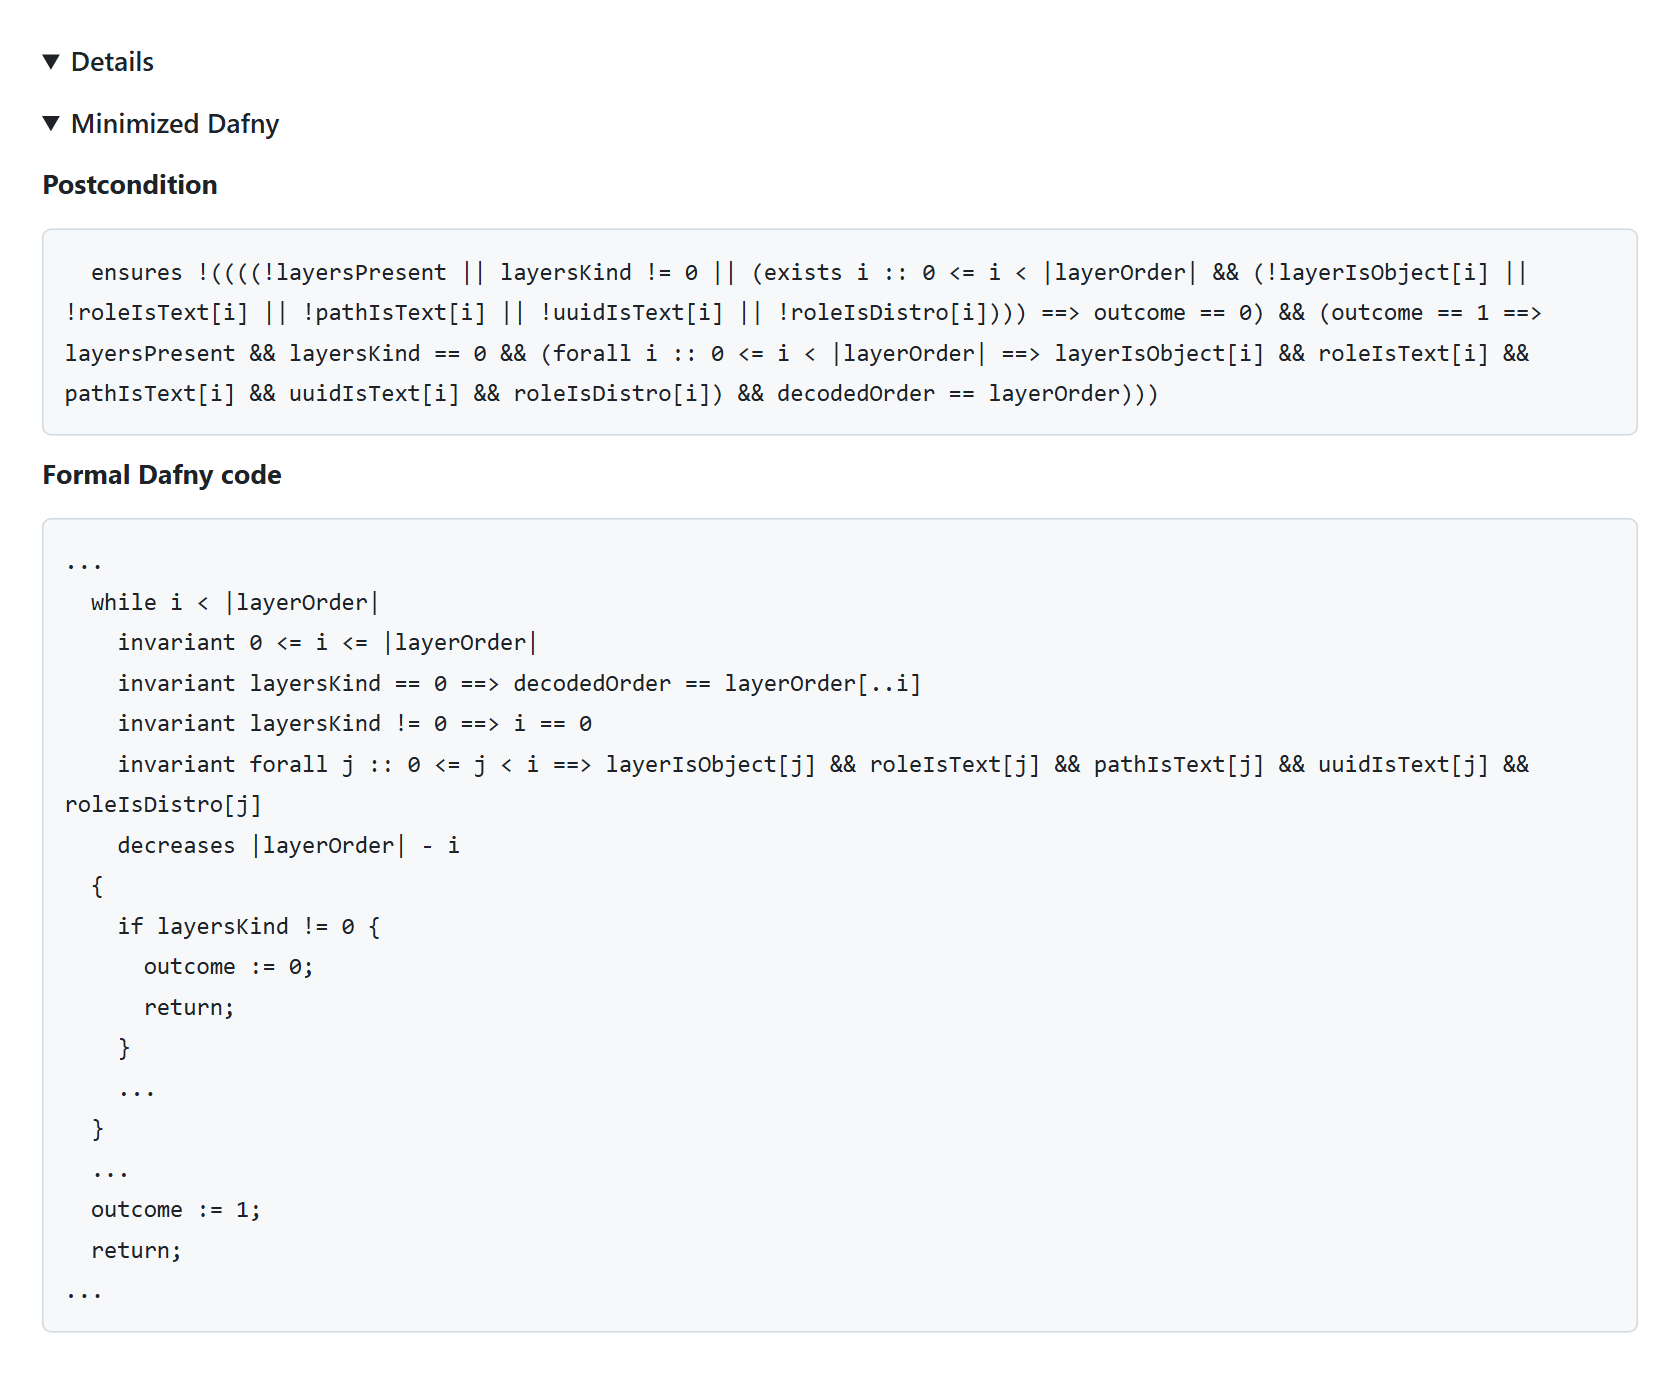
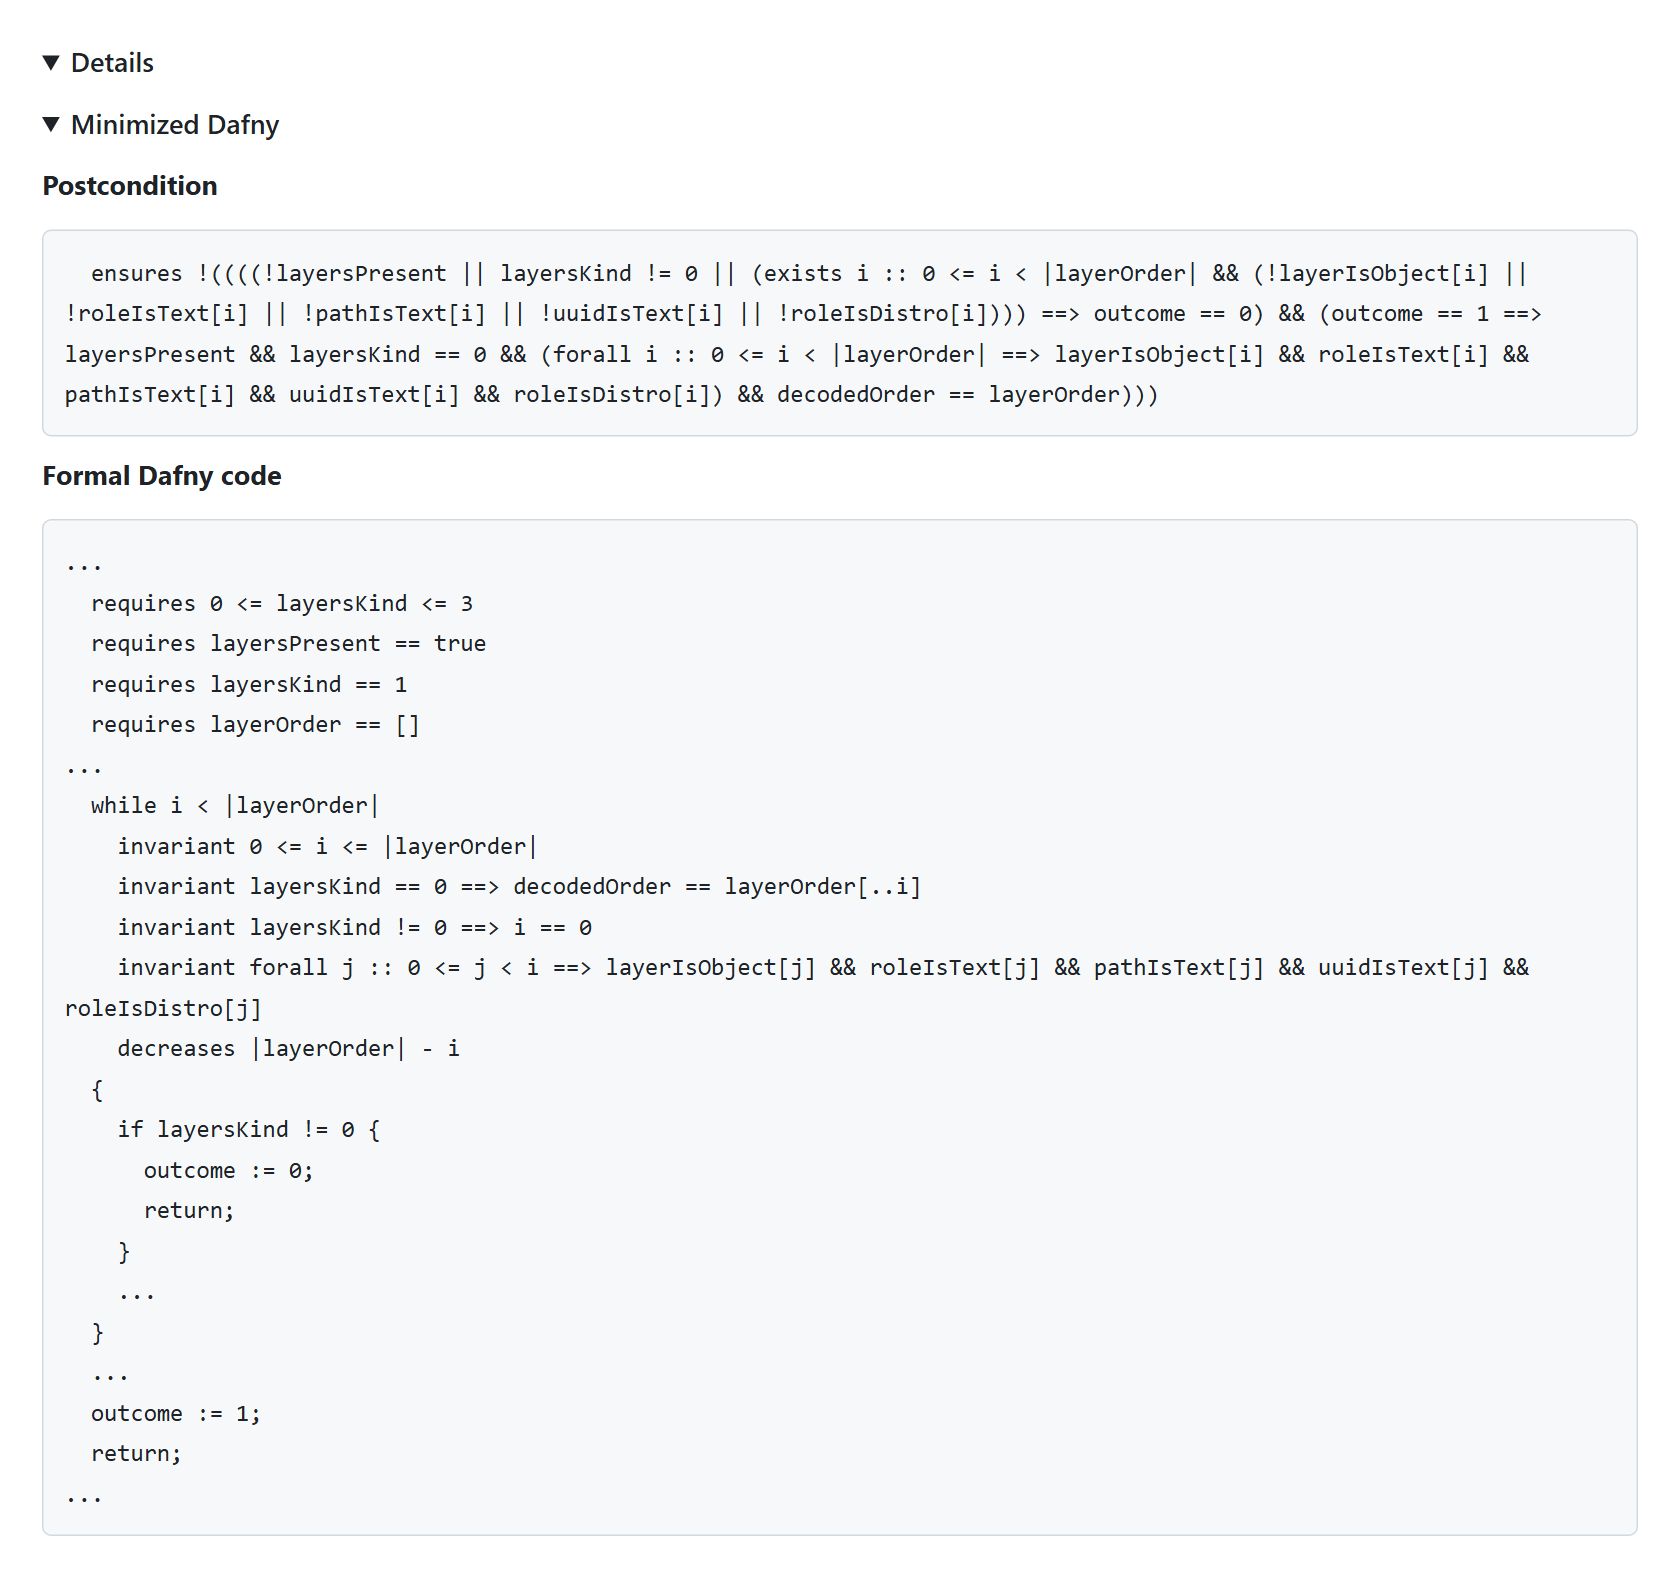
Include requires clauses in Dafny report image

Changed region(s): [[0.031, 0.0308, 0.9286, 0.7712], [0.0619, 0.8637, 0.1548, 0.9254], [0.4333, 0.4627, 0.4952, 0.4935]]

diff --git a/workflow/images/report-examples.html b/workflow/images/report-examples.html
@@ -65,6 +65,11 @@ summary { font-weight: 600; margin-bottom: 14px; }
 <pre><code>  ensures !((((!layersPresent || layersKind != 0 || (exists i :: 0 &lt;= i &lt; |layerOrder| &amp;&amp; (!layerIsObject[i] || !roleIsText[i] || !pathIsText[i] || !uuidIsText[i] || !roleIsDistro[i]))) ==&gt; outcome == 0) &amp;&amp; (outcome == 1 ==&gt; layersPresent &amp;&amp; layersKind == 0 &amp;&amp; (forall i :: 0 &lt;= i &lt; |layerOrder| ==&gt; layerIsObject[i] &amp;&amp; roleIsText[i] &amp;&amp; pathIsText[i] &amp;&amp; uuidIsText[i] &amp;&amp; roleIsDistro[i]) &amp;&amp; decodedOrder == layerOrder)))</code></pre>
 <p><strong>Formal Dafny code</strong></p>
 <pre><code>...
+  requires 0 &lt;= layersKind &lt;= 3
+  requires layersPresent == true
+  requires layersKind == 1
+  requires layerOrder == []
+...
   while i &lt; |layerOrder|
     invariant 0 &lt;= i &lt;= |layerOrder|
     invariant layersKind == 0 ==&gt; decodedOrder == layerOrder[..i]
